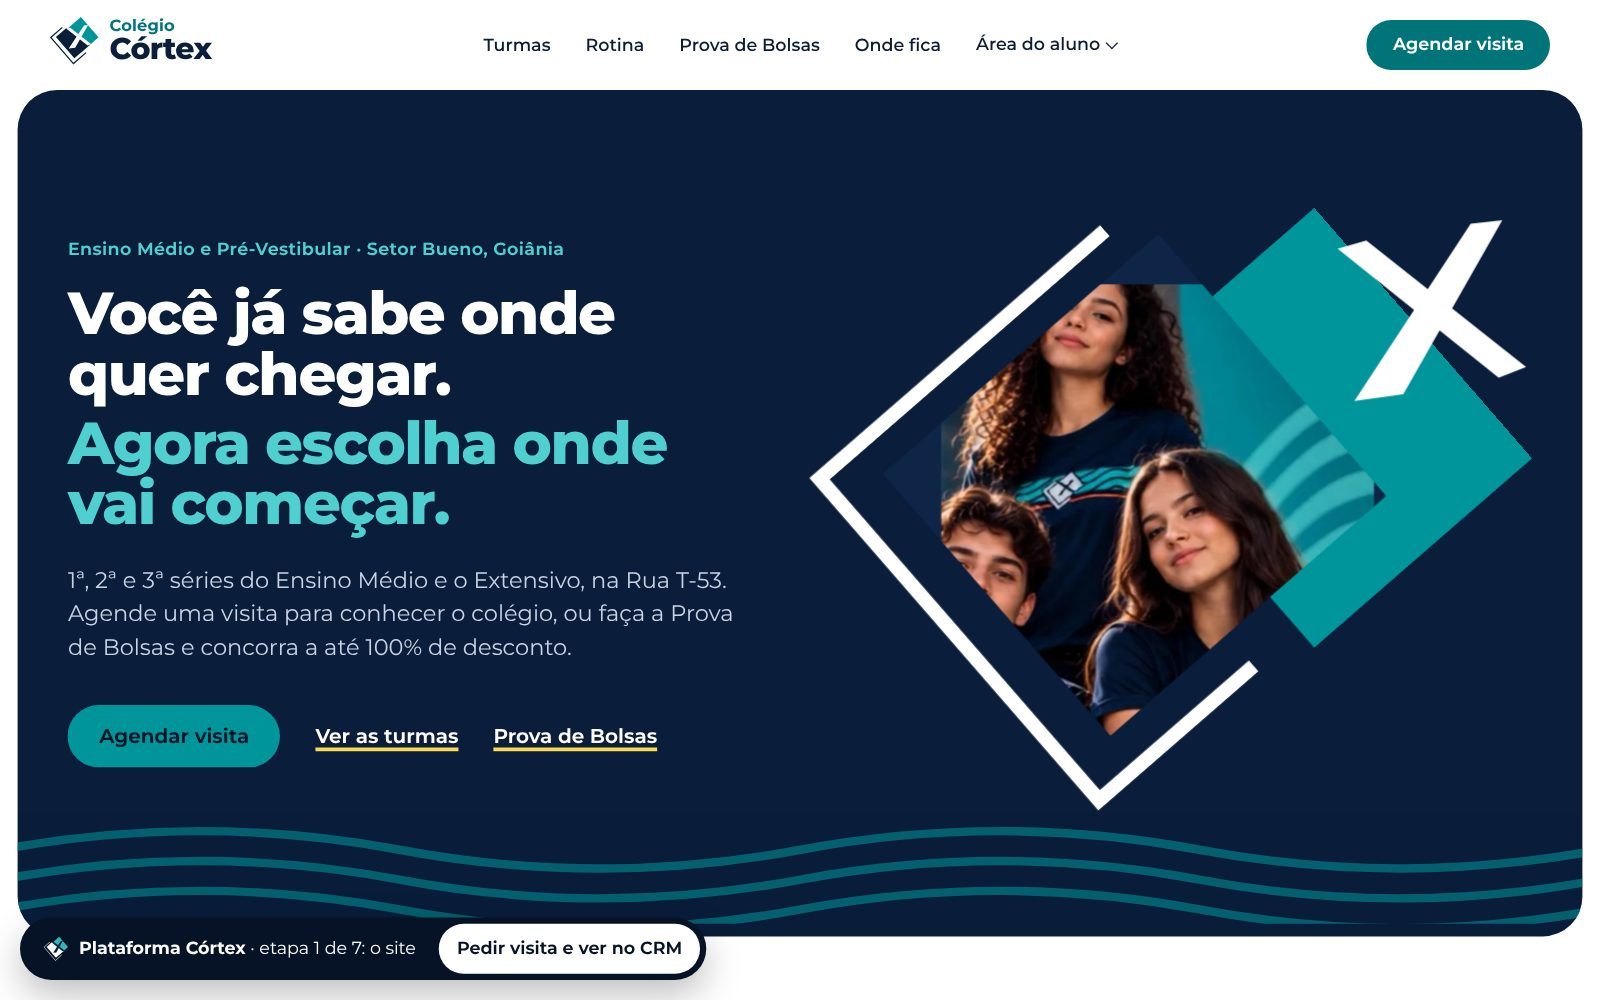
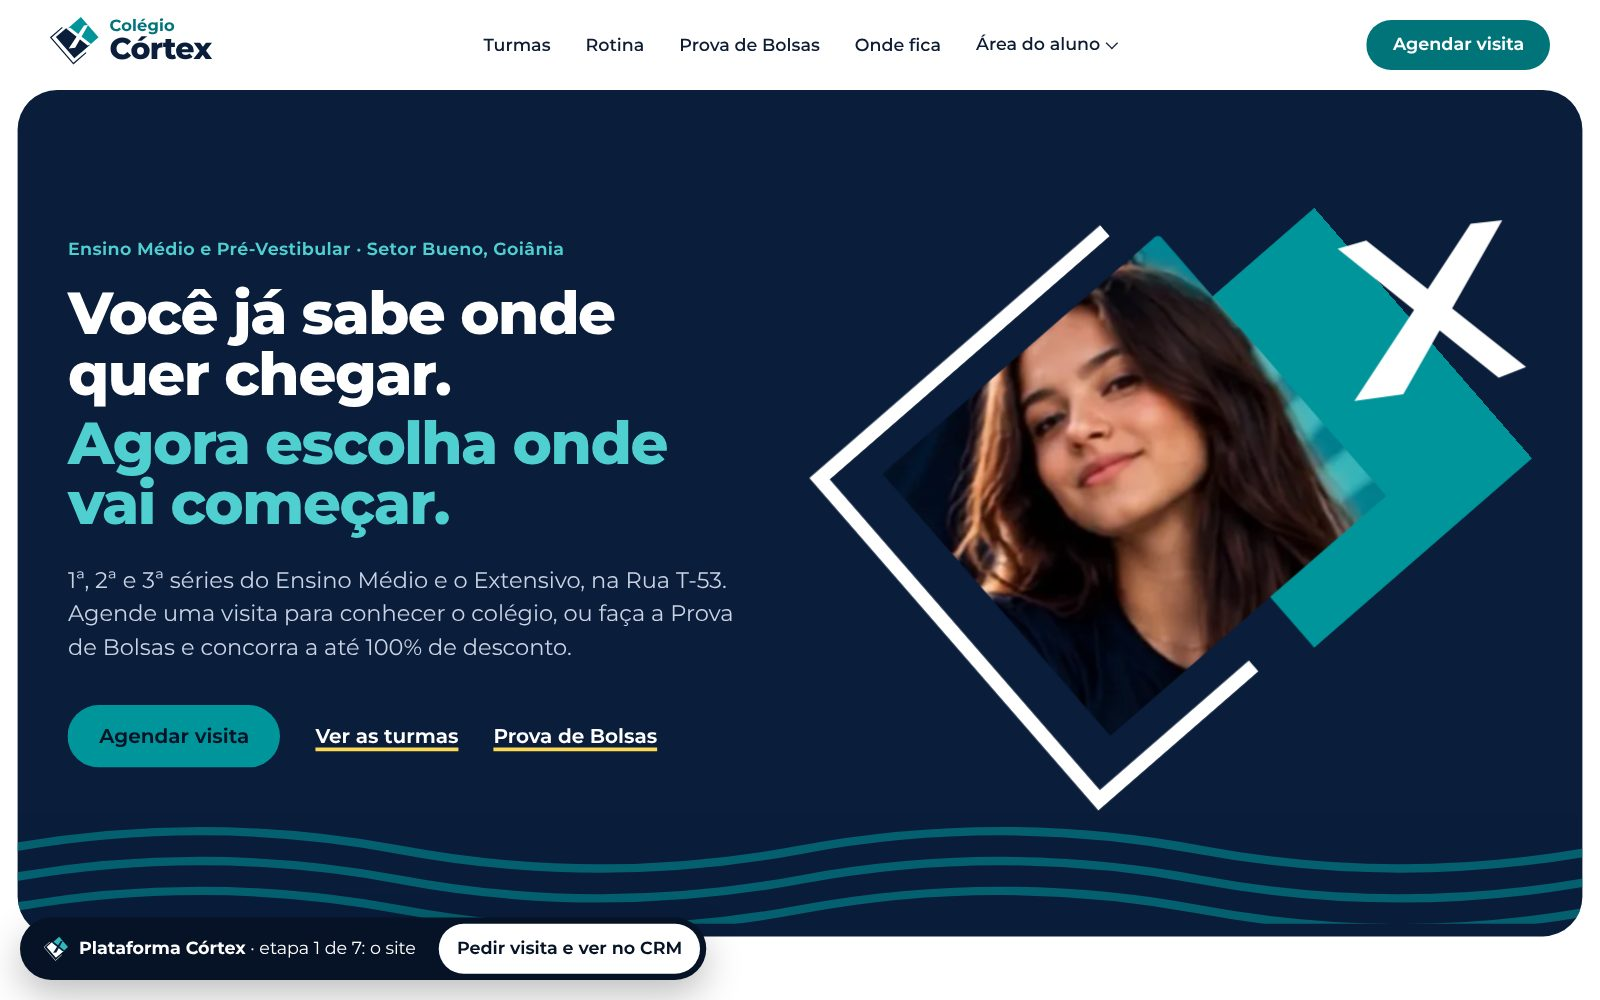
Foca a hero em uma aluna e reforça a visita como entrada principal
A hero do site mostra só uma aluna da foto da campanha, centrada na folha do
símbolo. O formulário passa a se chamar "Agende uma visita", com a visita
como padrão e a Prova de Bolsas e as dúvidas sobre matrícula como as outras
duas opções; o funil lê "Visita ou prova marcada". Capturas da página
inicial refeitas.

Claude-Session: https://claude.ai/code/session_0194HRBYwYGLuStc9boWYJcM

Changed region(s): [[0.5312, 0.217, 0.875, 0.744]]

diff --git a/README.md b/README.md
@@ -36,7 +36,7 @@ Regras de texto e de contribuição: [`CLAUDE.md`](CLAUDE.md).
 
 ### Hero
 
-O site abre com a hero dentro de uma moldura branca arredondada, e o menu é a faixa de cima dessa moldura. Ao rolar, a moldura se fecha e o menu vira uma barra flutuante. O título é a frase da campanha (“Você já sabe onde quer chegar. Agora escolha onde vai começar.”). A foto dos alunos da campanha entra no lugar da folha marinho do símbolo; o X fica no canto, sobre o verde-água, para não cobrir rostos. O quadrado e o X entram por último, como quem marca a resposta; `prefers-reduced-motion` desliga a animação.
+O site abre com a hero dentro de uma moldura branca arredondada, e o menu é a faixa de cima dessa moldura. Ao rolar, a moldura se fecha e o menu vira uma barra flutuante. O título é a frase da campanha (“Você já sabe onde quer chegar. Agora escolha onde vai começar.”). Uma aluna da foto da campanha entra no lugar da folha marinho do símbolo; o X fica no canto, sobre o verde-água. A foto original é pequena (o recorte tem 510 px de largura); com a foto em alta resolução, a hero fica mais nítida. O quadrado e o X entram por último, como quem marca a resposta; `prefers-reduced-motion` desliga a animação.
 
 ### Seções
 
@@ -53,7 +53,7 @@ O site abre com a hero dentro de uma moldura branca arredondada, e o menu é a f
 
 ## Fotos
 
-`public/img/CREDITOS.md` lista a origem de cada foto. A da hero é da campanha da Prova de Bolsas do colégio. As outras são do Pexels e mostram pessoas que não são do Córtex: servem para a demonstração e devem ser trocadas por fotos do colégio.
+`public/img/CREDITOS.md` lista a origem de cada foto. A da hero é um recorte da campanha da Prova de Bolsas do colégio. As outras são do Pexels e mostram pessoas que não são do Córtex: servem para a demonstração e devem ser trocadas por fotos do colégio.
 
 ## Dados
 

diff --git a/public/img/CREDITOS.md b/public/img/CREDITOS.md
@@ -2,7 +2,8 @@
 
 | Arquivo | Origem |
 |---|---|
-| `campanha-*.webp` | Peça da Prova de Bolsas do Colégio Córtex (`referencias/prova-de-bolsas.jpg`), recortada sem o texto. Foto do colégio. |
+| `aluna-*.webp` | Peça da Prova de Bolsas do Colégio Córtex (`referencias/prova-de-bolsas.jpg`), recortada em uma aluna, sem o texto. Usada na hero. |
+| `campanha-*.webp` | A mesma peça, recortada nos três alunos, sem o texto. Usada como imagem de compartilhamento. |
 | `simulado-*.webp` | Pexels, https://www.pexels.com/photo/6684219/ |
 | `redacao-*.webp` | Pexels, https://www.pexels.com/photo/6683673/ |
 | `plantao-*.webp` | Pexels, https://www.pexels.com/photo/16420352/ |
